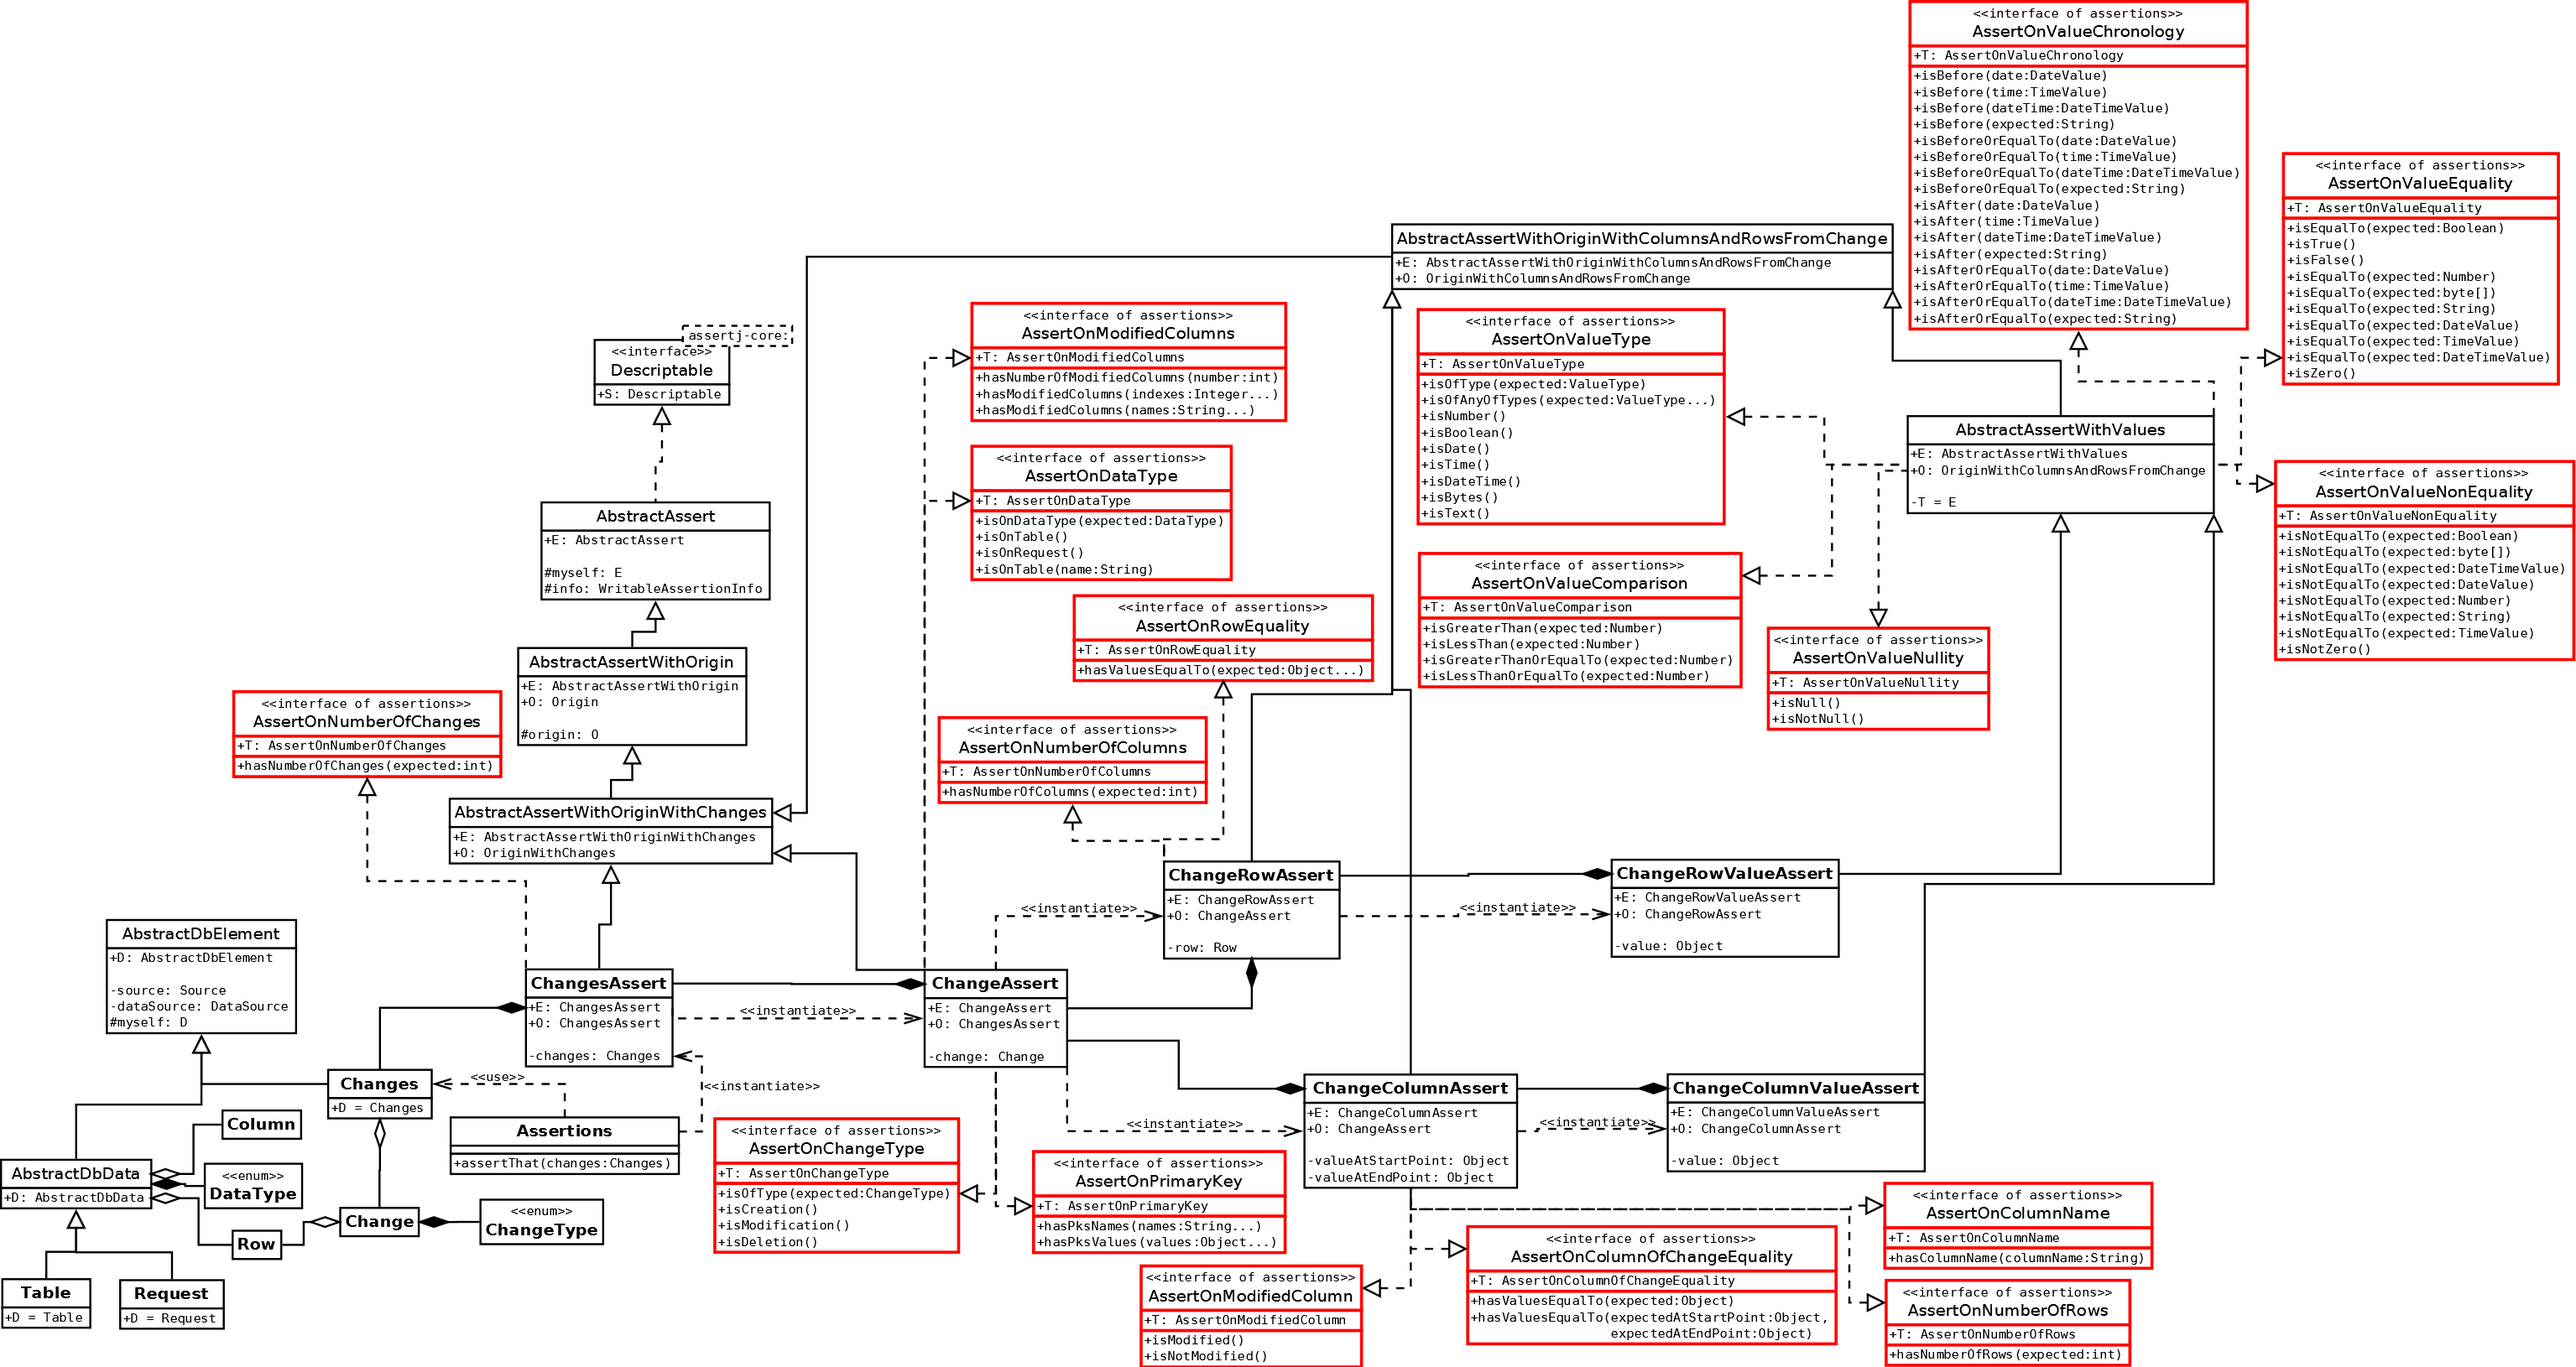
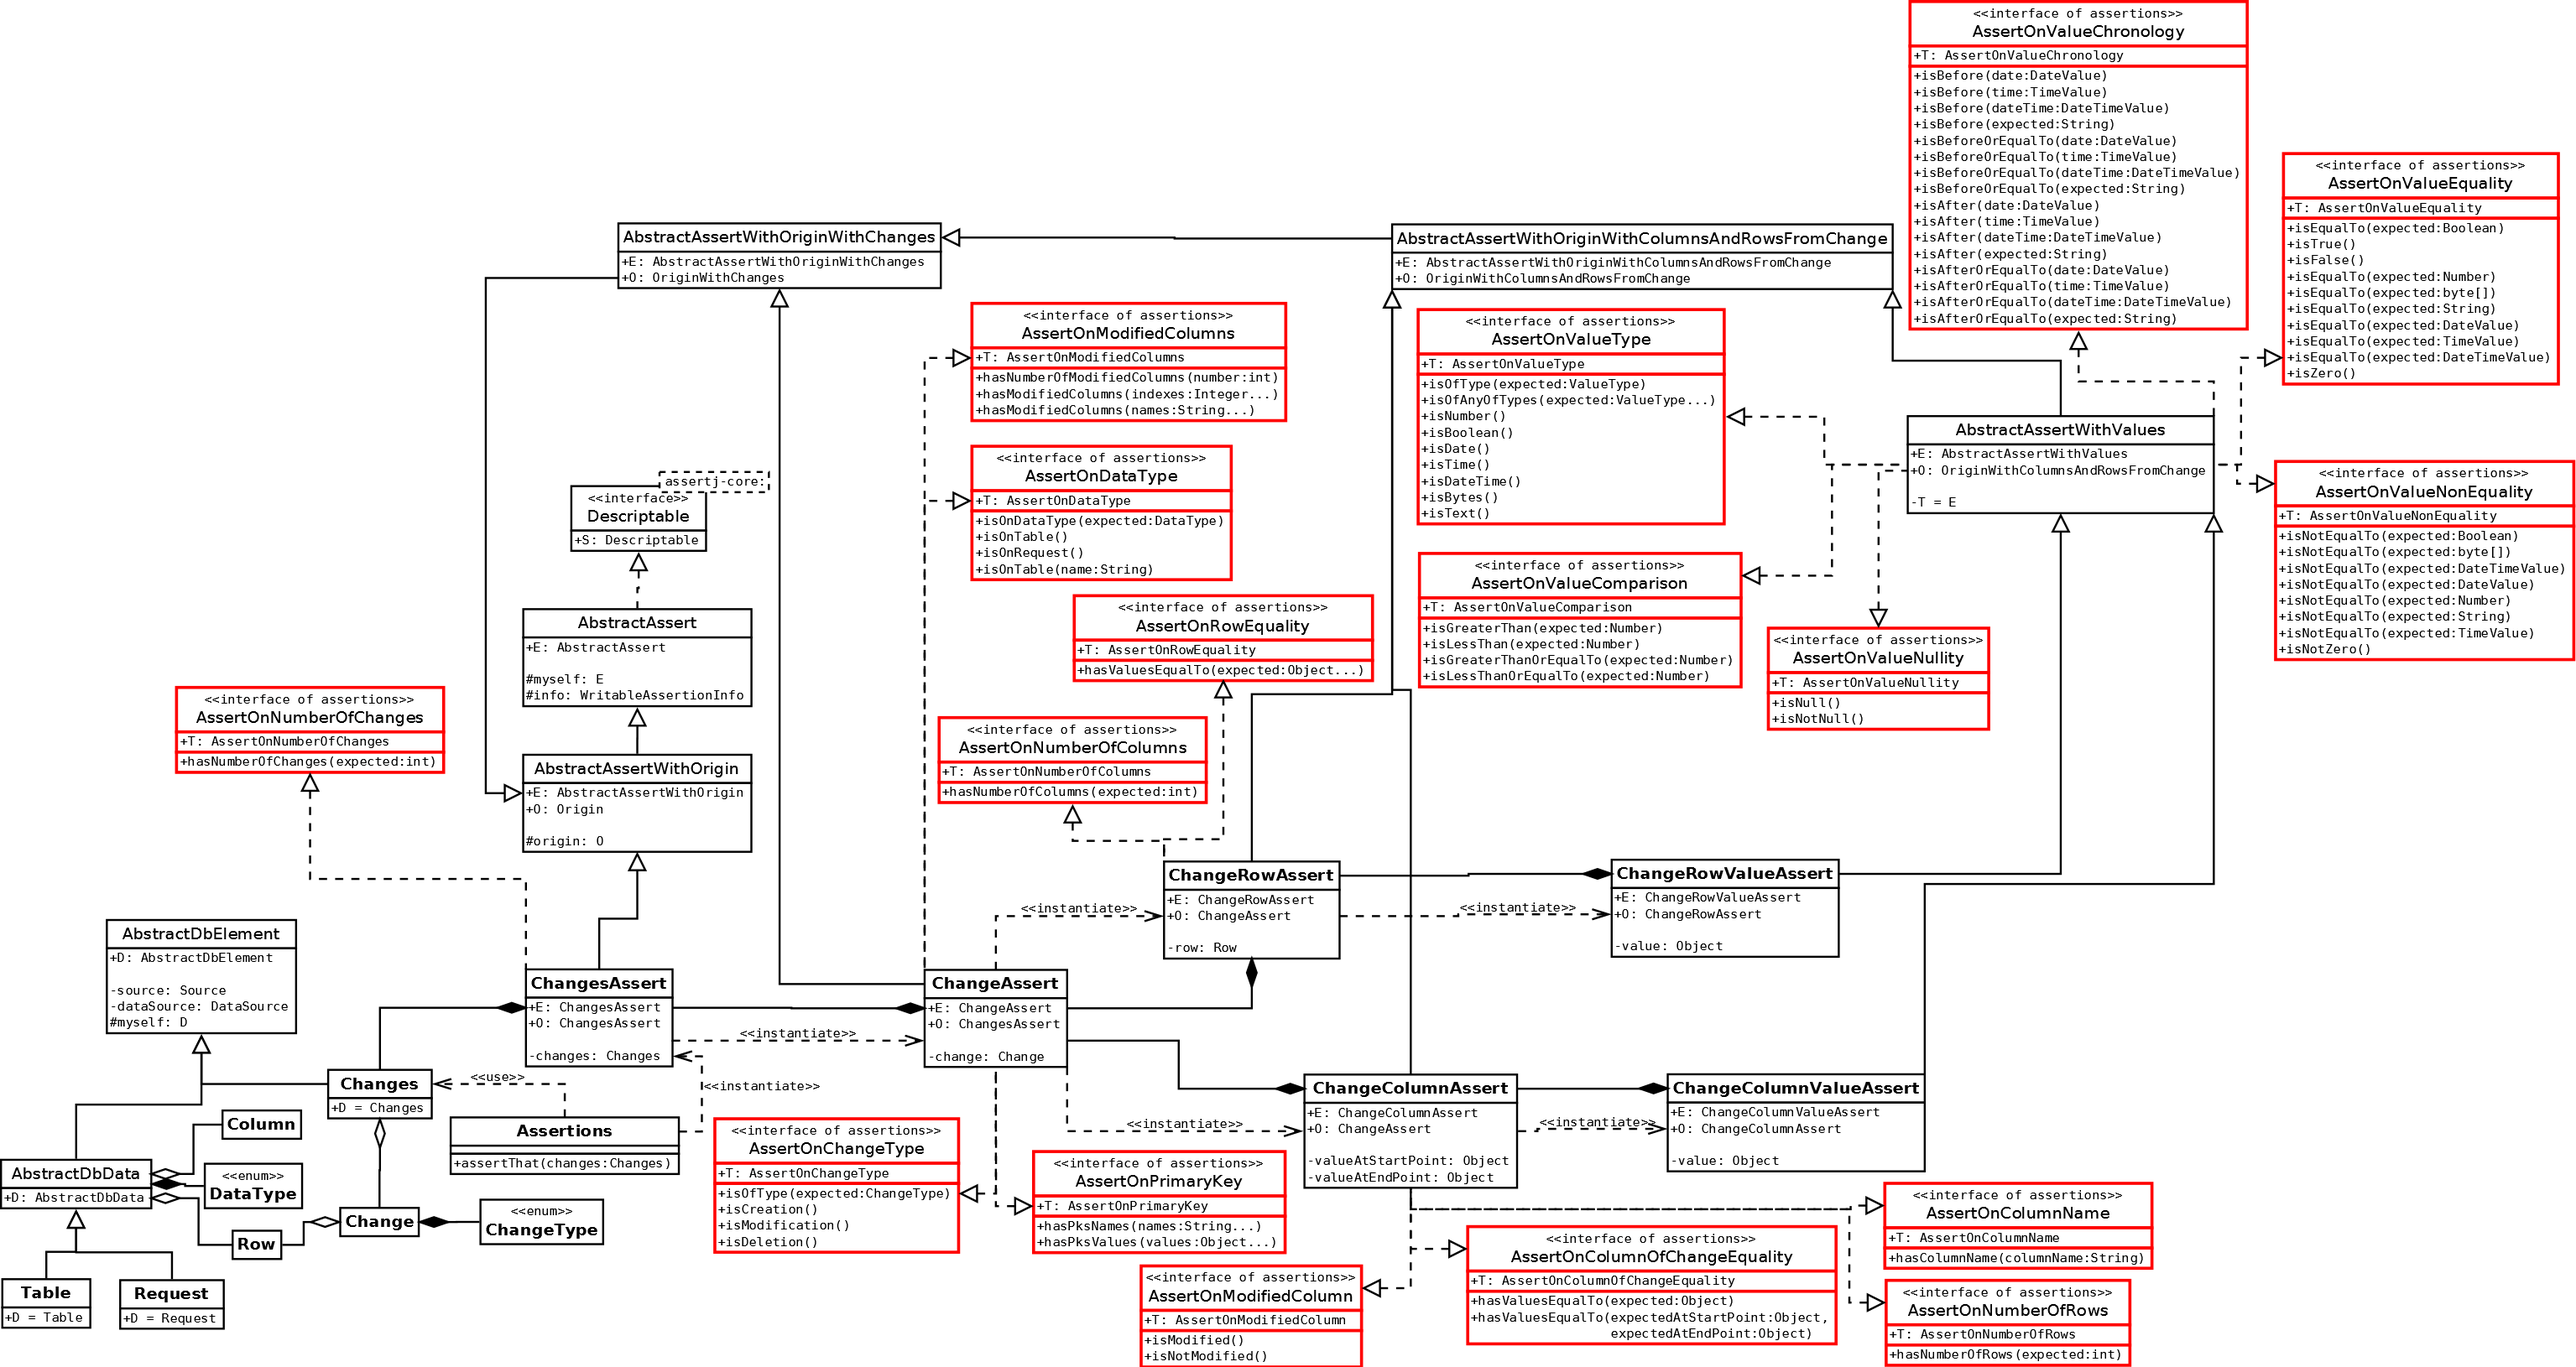
Connect ChangesAssert to AbstractAssertWithOrigin

Changed region(s): [[0.0619, 0.3374, 0.3094, 0.6442], [0.2166, 0.1534, 0.3713, 0.3067], [0.2785, 0.7055, 0.3713, 0.7669]]

diff --git a/src/main/java/org/assertj/db/api/ChangesAssert.java b/src/main/java/org/assertj/db/api/ChangesAssert.java
@@ -31,7 +31,7 @@ import java.util.Map;
  *
  * @author Régis Pouiller
  */
-public class ChangesAssert extends AbstractAssertWithOriginWithChanges<ChangesAssert, ChangesAssert> implements
+public class ChangesAssert extends AbstractAssertWithOrigin<ChangesAssert, ChangesAssert> implements
         OriginWithChanges,
         AssertOnNumberOfChanges<ChangesAssert> {
 
